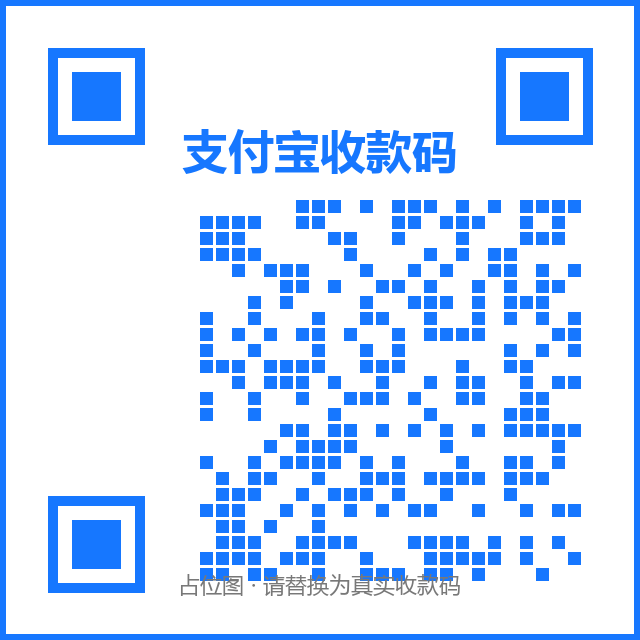
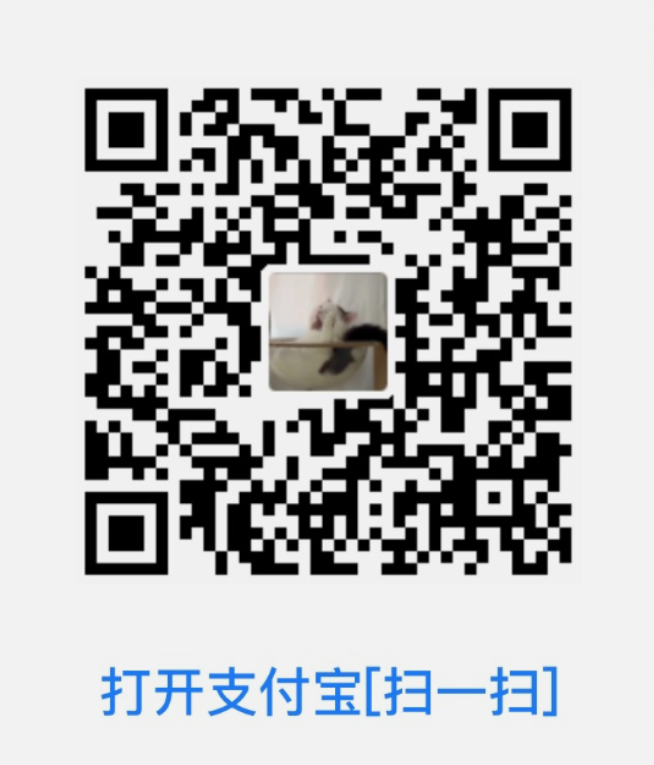
重构设置页信息板块：5 项纯标题二级页 + 关于作者单支付宝收款码

diff --git a/src/components/SettingsView.vue b/src/components/SettingsView.vue
@@ -80,10 +80,28 @@ function onFilesChanged(payload: { deletedIds: string[] }) {
   window.setTimeout(() => (cloudNote.value = ''), 2600)
 }
 
-// ── 打赏码：点击放大查看 ──
+// ── 信息二级页：关于 / 关于作者 / 投诉与建议 / 鸣谢 ──
+type InfoKey = 'about' | 'author' | 'feedback' | 'thanks'
+const activeInfo = ref<InfoKey | null>(null)
+const infoTitle = computed(() => {
+  switch (activeInfo.value) {
+    case 'about':
+      return '关于'
+    case 'author':
+      return '关于作者'
+    case 'feedback':
+      return '投诉与建议'
+    case 'thanks':
+      return '鸣谢'
+    default:
+      return ''
+  }
+})
+
+// ── 支付宝收款码：点击放大查看 ──
 const donateImg = ref<string | null>(null)
-function openDonate(name: 'wechat' | 'alipay') {
-  donateImg.value = `${import.meta.env.BASE_URL}donate-${name}.png`
+function openDonate() {
+  donateImg.value = `${import.meta.env.BASE_URL}donate-alipay.png`
 }
 
 // ── 反馈邮箱：一键复制 ──
@@ -155,7 +173,69 @@ async function confirmAdminReset() {
 </script>
 
 <template>
-  <div class="settings">
+  <!-- 信息二级页：关于 / 关于作者 / 投诉与建议 / 鸣谢 -->
+  <div v-if="activeInfo" class="settings">
+    <header class="bar">
+      <button type="button" class="back" @click="activeInfo = null">‹ 返回</button>
+      <h1>{{ infoTitle }}</h1>
+    </header>
+
+    <section class="info-detail">
+      <!-- 关于 -->
+      <template v-if="activeInfo === 'about'">
+        <p class="block-text">支持完全自定义练声项目与上传练声曲，支持实时音调检测、跟练打卡与多端云端同步。</p>
+        <p class="block-text muted">项目已完全免费开源。</p>
+        <p class="block-text">
+          开源仓库：
+          <a class="block-link" :href="GITHUB_REPO_URL" target="_blank" rel="noopener noreferrer">{{ GITHUB_REPO_URL }} ↗</a>
+        </p>
+      </template>
+
+      <!-- 关于作者 -->
+      <template v-else-if="activeInfo === 'author'">
+        <p class="block-text">VINCE DWAN，业余入门唱歌爱好者，不务正业的可怜财务人，希望可以晚饭加鸡腿。</p>
+        <button type="button" class="donate-card single" @click="openDonate">
+          <img :src="`${base}donate-alipay.png`" alt="支付宝收款码" />
+          <span>支付宝扫一扫，加个鸡腿</span>
+        </button>
+        <p class="biz-note">
+          接中小企业财务分析；接个人/银企大额/小额电子过桥等，费用低廉（仅限地区：粤）；接工作机会（过硬跨境全盘财务能力）以上可联系
+          <a class="biz-mail" :href="`mailto:${FEEDBACK_EMAIL}`">{{ FEEDBACK_EMAIL }}</a>
+          <button type="button" class="biz-copy" @click="copyEmail">{{ emailCopied ? '已复制 ✓' : '复制' }}</button>
+        </p>
+      </template>
+
+      <!-- 投诉与建议 -->
+      <template v-else-if="activeInfo === 'feedback'">
+        <p class="block-text">不接受投诉~~意见与反馈，以及找不回密码请联系邮箱 {{ FEEDBACK_EMAIL }}（加急可以打赏查看邮箱更快喔）</p>
+        <div class="feedback-row">
+          <span class="feedback-email">{{ FEEDBACK_EMAIL }}</span>
+          <button type="button" class="mini" @click="copyEmail">{{ emailCopied ? '已复制 ✓' : '复制邮箱' }}</button>
+          <a class="mini-link" :href="`mailto:${FEEDBACK_EMAIL}`">发邮件</a>
+        </div>
+      </template>
+
+      <!-- 鸣谢 -->
+      <template v-else>
+        <p class="block-text">感谢 WorkBuddy 及各大智能体（Hy4 flash / DeepSeek-v4.1-Flash / DeepSeek-v4-Pro / GLM-5.3 / GLM-5.3-Flash / GLM-5.3-FlashX）及贡献提示词的网页版 AI（腾讯元宝 / DeepSeek / Google Gemini）的鼎力支持，以及 GitHub 提供的前端服务，Cloudflare 提供的免费后端数据库，DigitalPlat 提供注册的免费域名。</p>
+      </template>
+    </section>
+
+    <!-- 支付宝收款码放大预览 -->
+    <Teleport to="body">
+      <Transition name="donate">
+        <div v-if="donateImg" class="donate-mask" @click.self="donateImg = null">
+          <figure class="donate-big">
+            <img :src="donateImg" alt="收款码大图" />
+            <button type="button" class="donate-close" @click="donateImg = null">关闭</button>
+          </figure>
+        </div>
+      </Transition>
+    </Teleport>
+  </div>
+
+  <!-- 主设置页 -->
+  <div v-else class="settings">
     <header class="bar">
       <button type="button" class="back" @click="emit('back')">‹ 返回</button>
       <h1>设置</h1>
@@ -284,72 +364,29 @@ async function confirmAdminReset() {
       <p v-if="adminMsg" class="admin-msg" :class="{ err: adminErr }" role="status">{{ adminMsg }}</p>
     </section>
 
-    <!-- 板块一：关于 -->
-    <section class="block">
-      <h2>关于</h2>
-      <p class="block-text">
-        支持完全自定义练声项目与上传练声曲，支持实时音调检测、跟练打卡与多端云端同步。
-      </p>
-      <p class="block-text muted">项目已完全免费开源。</p>
-      <a class="block-link" :href="GITHUB_REPO_URL" target="_blank" rel="noopener noreferrer">
-        开源仓库 {{ GITHUB_REPO_URL }} ↗
-      </a>
-      <p class="block-text muted small">
-        鸣谢：WorkBuddy 及各大智能体（Hy4 flash / DeepSeek-v4.1-Flash / DeepSeek-v4-Pro / GLM-5.3 /
-        GLM-5.3-Flash / GLM-5.3-FlashX）及贡献提示词的网页版 AI（腾讯元宝 / DeepSeek / Google Gemini）的鼎力支持，
-        以及 GitHub 提供的前端服务、Cloudflare 提供的免费后端数据库、DigitalPlat 提供的免费域名。
-      </p>
-    </section>
-
-    <!-- 板块二：使用与自定义教程 -->
-    <section class="block">
-      <button type="button" class="block-entry" @click="emit('help')">
-        <span>
-          <strong>使用与自定义教程</strong>
-          <small>跟练打卡、自定义模式、容量清理、主屏幕安装</small>
-        </span>
-        <span aria-hidden="true" class="chevron">›</span>
+    <!-- 信息板块：5 项纯标题 + 箭头，点击进入二级页 -->
+    <section class="block info-list">
+      <button type="button" class="info-row" @click="activeInfo = 'about'">
+        <span>关于</span>
+        <span class="chevron" aria-hidden="true">›</span>
+      </button>
+      <button type="button" class="info-row" @click="emit('help')">
+        <span>使用和自定义教程</span>
+        <span class="chevron" aria-hidden="true">›</span>
+      </button>
+      <button type="button" class="info-row" @click="activeInfo = 'author'">
+        <span>关于作者</span>
+        <span class="chevron" aria-hidden="true">›</span>
+      </button>
+      <button type="button" class="info-row" @click="activeInfo = 'feedback'">
+        <span>投诉与建议</span>
+        <span class="chevron" aria-hidden="true">›</span>
+      </button>
+      <button type="button" class="info-row" @click="activeInfo = 'thanks'">
+        <span>鸣谢</span>
+        <span class="chevron" aria-hidden="true">›</span>
       </button>
     </section>
-
-    <!-- 板块三：作者与打赏 -->
-    <section class="block">
-      <h2>作者与打赏</h2>
-      <p class="block-text">作者：VINCE DWAN，作者很神秘，只留下了神秘打赏二维码，希望顿顿晚饭加鸡腿。</p>
-      <div class="donate-row">
-        <button type="button" class="donate-card" @click="openDonate('wechat')">
-          <img :src="`${base}donate-wechat.png`" alt="微信收款码" />
-          <span>微信</span>
-        </button>
-        <button type="button" class="donate-card" @click="openDonate('alipay')">
-          <img :src="`${base}donate-alipay.png`" alt="支付宝收款码" />
-          <span>支付宝</span>
-        </button>
-      </div>
-      <p class="block-text muted small">点击收款码可放大查看。</p>
-    </section>
-
-    <!-- 板块四：意见反馈 -->
-    <section class="block">
-      <h2>意见反馈</h2>
-      <div class="feedback-row">
-        <span class="feedback-email">{{ FEEDBACK_EMAIL }}</span>
-        <button type="button" class="mini" @click="copyEmail">{{ emailCopied ? '已复制 ✓' : '复制邮箱' }}</button>
-        <a class="mini-link" :href="`mailto:${FEEDBACK_EMAIL}`">发邮件</a>
-      </div>
-    </section>
-
-    <!-- 打赏码放大预览 -->
-    <Teleport to="body">
-      <Transition name="donate">
-        <div v-if="donateImg" class="donate-mask" @click.self="donateImg = null">
-          <figure class="donate-big">
-            <img :src="donateImg" alt="收款码大图" />
-            <button type="button" class="donate-close" @click="donateImg = null">关闭</button>
-          </figure>
-        </div>
-      </Transition>
-    </Teleport>
 
     <!-- 管理员重置密码：二次确认弹窗 -->
     <Teleport to="body">
@@ -641,7 +678,7 @@ dd.ok {
 .swatch.active .swatch-name {
   color: var(--text);
 }
-/* ── 设置页四大信息板块：关于 / 教程 / 打赏 / 反馈 ── */
+/* ── 设置页信息板块：5 项纯标题行，点击进二级页 ── */
 .block {
   margin-top: 16px;
   background: var(--card-glass);
@@ -683,31 +720,37 @@ dd.ok {
 .block-link:hover {
   text-decoration: underline;
 }
-.block-entry {
+.info-list {
+  padding: 6px 16px;
+}
+.info-row {
   display: flex;
   align-items: center;
   justify-content: space-between;
   gap: 10px;
   width: 100%;
-  padding: 0;
+  padding: 13px 0;
   border: none;
   background: none;
   color: var(--text);
   font-family: inherit;
+  font-size: 14px;
   cursor: pointer;
   text-align: left;
+  border-bottom: 1px solid var(--line);
 }
-.block-entry strong {
-  display: block;
-  font-size: 14px;
-  font-weight: 500;
-  color: var(--text);
+.info-row:last-child {
+  border-bottom: none;
 }
-.block-entry small {
-  display: block;
-  margin-top: 3px;
-  font-size: 12px;
-  color: var(--muted);
+.info-detail {
+  background: var(--card-glass);
+  border: 1px solid var(--card-glass-border);
+  -webkit-backdrop-filter: var(--card-blur);
+  backdrop-filter: var(--card-blur);
+  box-shadow: var(--card-glass-shadow);
+  transition: background 0.5s ease, box-shadow 0.5s ease, border-color 0.5s ease;
+  border-radius: var(--r-m);
+  padding: 16px;
 }
 .chevron {
   color: var(--accent);
@@ -715,11 +758,6 @@ dd.ok {
   flex: 0 0 auto;
 }
 /* 打赏码 */
-.donate-row {
-  display: flex;
-  gap: 14px;
-  margin: 10px 0 4px;
-}
 .donate-card {
   flex: 1 1 0;
   display: flex;
@@ -742,6 +780,41 @@ dd.ok {
 .donate-card span {
   font-size: 12px;
   color: var(--muted);
+}
+/* 关于作者：单卡片居中展示 */
+.donate-card.single {
+  flex: none;
+  width: 100%;
+  max-width: 220px;
+  margin: 12px auto 4px;
+}
+/* 业务合作说明：灰色小小字 */
+.biz-note {
+  margin: 14px 0 0;
+  font-size: 11px;
+  line-height: 1.6;
+  color: var(--muted);
+  opacity: 0.85;
+}
+.biz-mail {
+  color: var(--accent);
+  text-decoration: none;
+  word-break: break-all;
+}
+.biz-mail:hover {
+  text-decoration: underline;
+}
+.biz-copy {
+  margin-left: 6px;
+  border: none;
+  background: var(--fill);
+  color: var(--accent);
+  border-radius: 999px;
+  font-size: 11px;
+  padding: 2px 10px;
+  cursor: pointer;
+  font-family: inherit;
+  white-space: nowrap;
 }
 /* 意见反馈 */
 .feedback-row {

diff --git a/src/components/HelpView.vue b/src/components/HelpView.vue
@@ -144,7 +144,7 @@ const custom: Section[] = [
   <div class="help">
     <header class="bar">
       <button type="button" class="back" @click="emit('back')">‹ 返回</button>
-      <h1>使用与自定义教程</h1>
+      <h1>使用和自定义教程</h1>
     </header>
 
     <div class="tabs" role="tablist">
